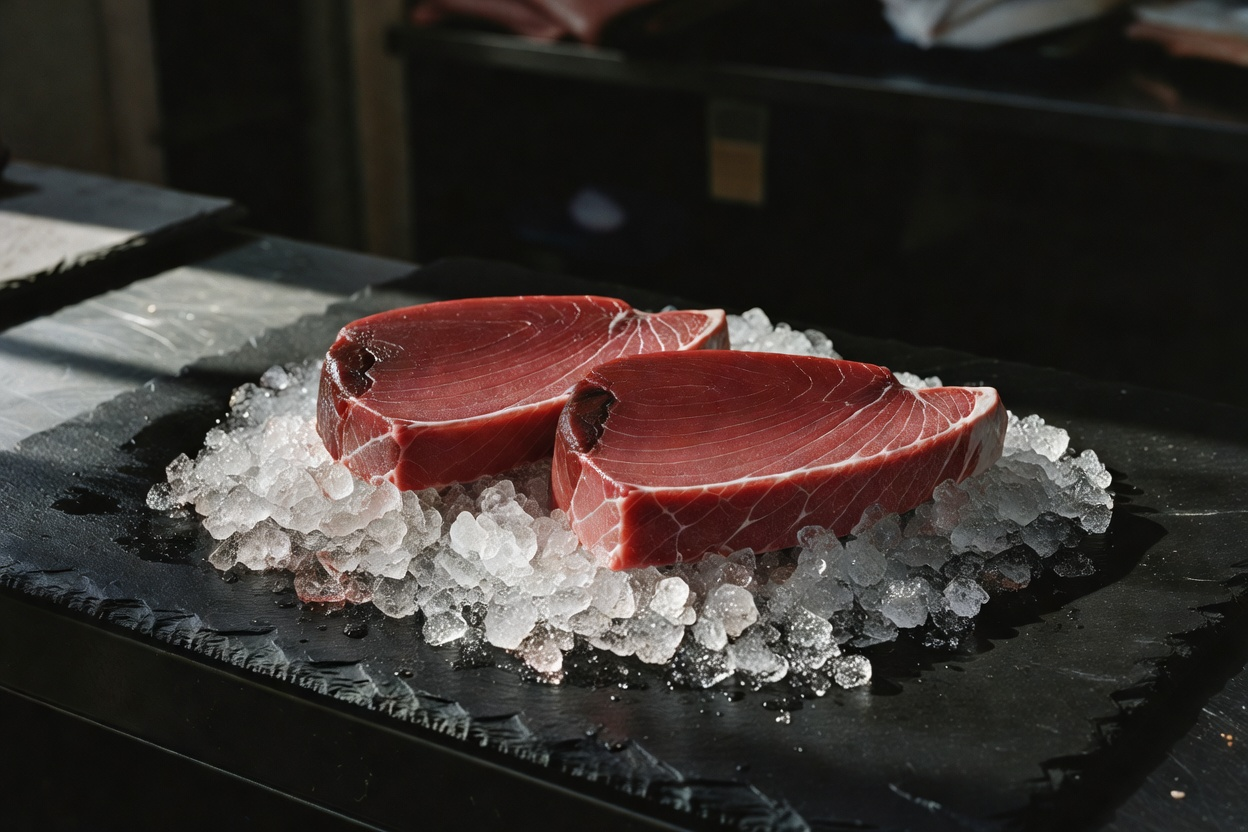
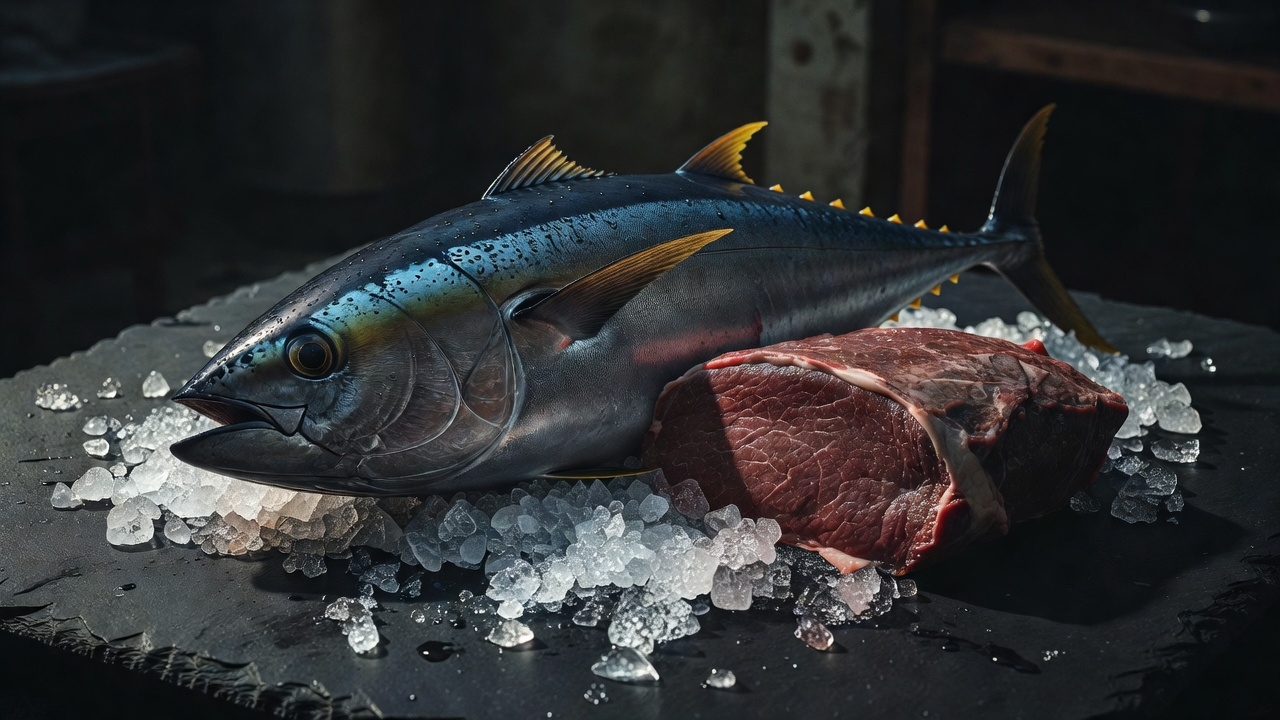
Update atun: whole yellowfin tuna + steak cross-section beside it

diff --git a/gen_fix4.py b/gen_fix4.py
@@ -1,0 +1,33 @@
+"""Fix: atun - whole fish + steak cross-section beside it"""
+import requests, base64, os
+from pathlib import Path
+
+API_KEY = os.environ["XAI_API_KEY"]
+OUT = Path("public/images")
+
+STYLE = (
+    "on crushed ice on a dark black slate surface, dramatic natural side lighting, "
+    "muted desaturated colors, real food photography, authentic fish market quality, "
+    "matte wet skin with small water droplets, gritty realistic texture, "
+    "no artificial saturation, no CGI glow, "
+    "shot on 35mm film camera, natural grain, dark moody background. No text."
+)
+
+prompt = (
+    f"One whole fresh Yellowfin Tuna (Thunnus albacares) lying on its side, "
+    f"and beside it one thick cross-section steak cut showing deep ruby-red flesh with fine grain, "
+    f"tuna skin dark blue-grey with yellow fins visible, natural imperfections, "
+    f"small water droplets on fish skin, realistic fish market display {STYLE}"
+)
+
+print("Generating atun.jpg...")
+r = requests.post(
+    "https://api.x.ai/v1/images/generations",
+    headers={"Authorization": f"Bearer {API_KEY}", "Content-Type": "application/json"},
+    json={"model": "grok-imagine-image", "prompt": prompt, "n": 1, "response_format": "b64_json"},
+    timeout=60
+)
+r.raise_for_status()
+img = base64.b64decode(r.json()["data"][0]["b64_json"])
+(OUT / "atun.jpg").write_bytes(img)
+print(f"  OK ({len(img)//1024} KB)")